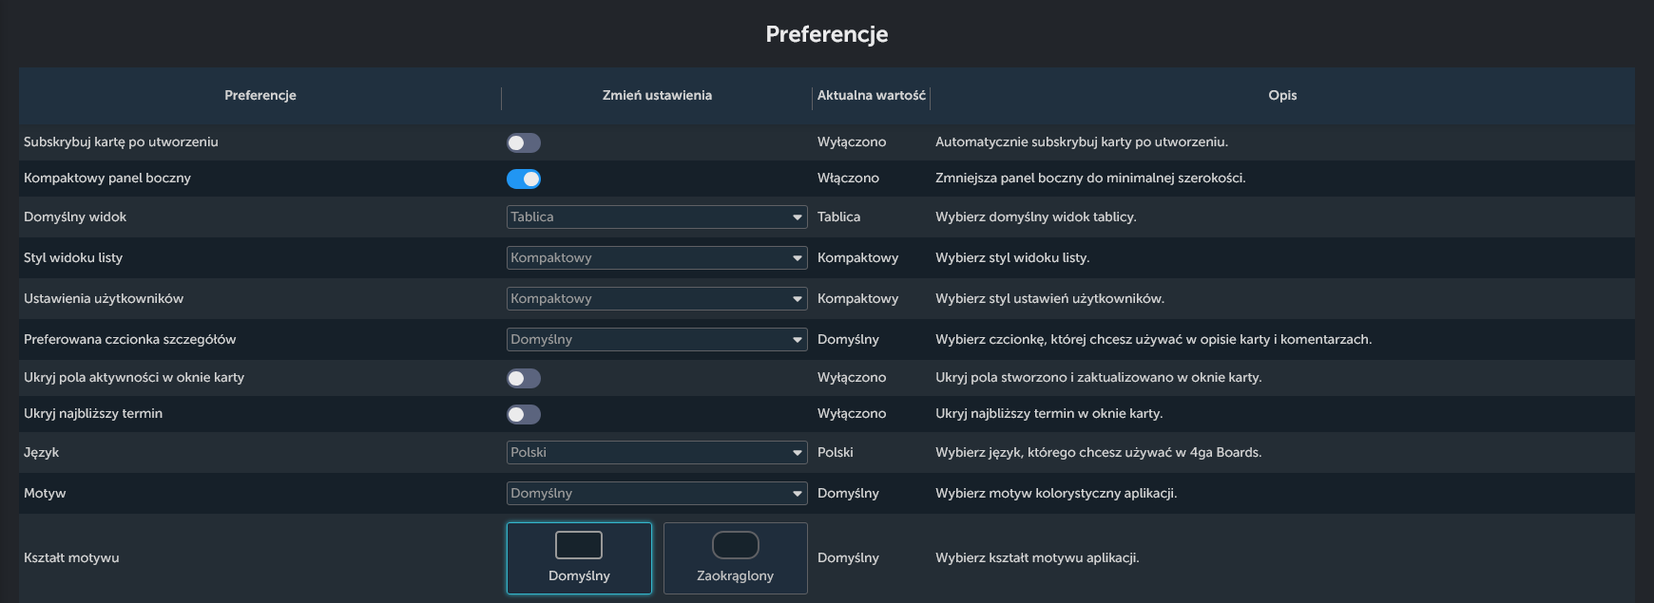
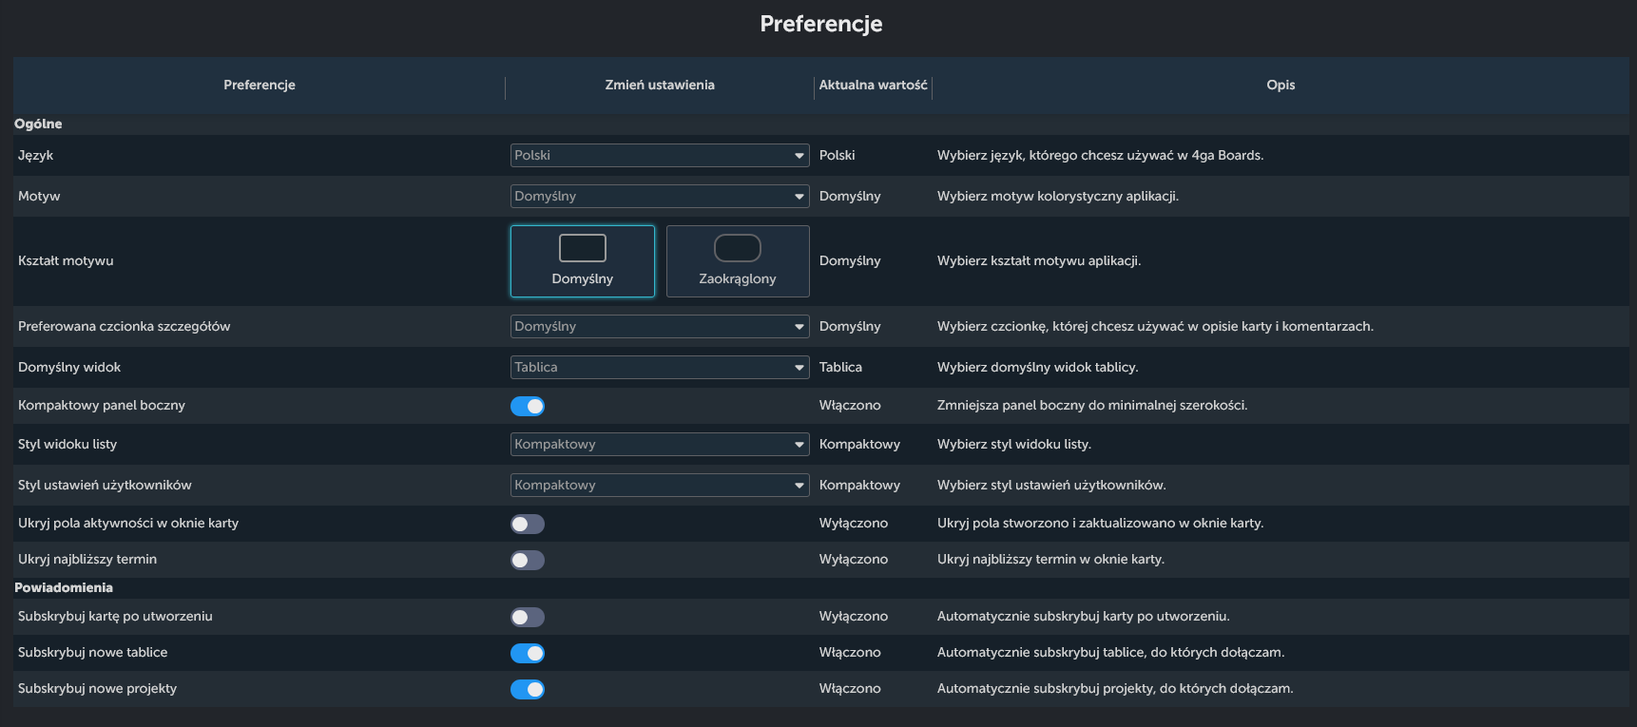
feat: updated docs pl version, minor adjustments en version

diff --git a/i18n/pl/docusaurus-plugin-content-docs/current/settings.md b/i18n/pl/docusaurus-plugin-content-docs/current/settings.md
@@ -14,17 +14,55 @@ W ustawieniach profilu dodać awatar/zdjęcie do swojego profilu (kliknij przyci
 ![Ustawienia profilu](/img/settingsprofile_pl.png)
 
 ## Preferencje
-W preferencjach możesz ustawić automatyczną subskrypcję tworzonych przez siebie kart (porównaj: [karta](./card), sekcja opcje karty) oraz zmienić język wyświetlania 4ga Boards.
+W preferencjach możesz dostosować 4ga Boards do swoich, nomen omen, preferencji.
 
-![Ustawienia preferencji użytkownika](/img/settingspreferences_pl.png)
+1. "Język": Wybierz język, którego chcesz używać w 4ga Boards.
+2. "Motyw": Wybierz kolorystyę aplikacji. Obecnie dostępne motywy: domyślny (używany w tej dokumentacji), "GitHub Dark" lub stwórz własny motyw (zobacz poniższe obrazki).
 
-Opcja "kompaktowy panel boczny" pozwala na zwężenie bądź poszerzenie panelu bocznego. Po włączeniu panel będzie wąski - jest to opcja polecana dla użytkowników ceniących minimalistyczny wygląd i większą przestrzeń roboczą tablicy.
+![Github dark rounded showcase](/img/githubdarkrounded_en.png)
 
-![Szerokość kompaktowego panelu bocznego](/img/sidebarslim_pl.png)
+![Light theme showcase](/img/themelight_en.png)
 
-Wyłączenie opcji poszerzy panel boczny, co może być szczególnie użyteczne jeśli nazwy tablic/projektów nie mieszczą się w widoku kompaktowym:
+![Custom theme selection](/img/themecustomselect_en.png)
 
-![Szerokość standardowego panelu bocznego](/img/sidebarnormal_pl.png)
+![Custom theme editor](/img/themecustom_en.png)
+
+3. "Kształt motywu": Wybierz kształt elementów aplikacji. Możesz wybrać domyślny kwadratowy lub zaokrąglony (zobacz obrazek powyżej).  
+
+4. "Preferowana czcionka szczegółów": Wybierz czcionkę (domyślną lub monospace) do opisu kart i komentarzy; w tej dokumentacji używana jest czcionka domyślna.
+
+5. "Domyślny widok": Ustaw, czy tablice mają otwierać się domyślnie w widoku tablicy czy listy.
+
+6. "Kompaktowy pasek boczny": Wybierz styl swojego paska bocznego (dotyczy zarówno ustawień, jak i widoku tablic).
+Jeśli włączysz tę opcję, pasek boczny będzie wąski. To dobre rozwiązanie, jeśli preferujesz minimalistyczny design i więcej miejsca dla list w widoku tablicy, bądź szerszej tabeli w widoku listy.
+
+![Compact sidebar width](/img/sidebarslim_pl.png)
+
+Jeśli wyłączysz tę opcję, pasek boczny będzie szerszy, co może być przydatne przy długich nazwach projektów.
+
+![Normal sidebar width](/img/sidebarnormal_pl.png)
+
+7. "Styl widoku listy": Wybierz, czy widok listy ma być kompaktowy, czy większy (domyślny); w tej dokumentacji pokazany jest widok kompaktowy.
+
+8. "Styl ustawień użytkowników": Wybierz, czy ustawienia użytkowników mają być w wersji kompaktowej czy większej (domyślnej).
+
+9. "Ukryj aktywność w modalach kart": Włącz, aby ukryć dziennik aktywności (czas utworzenia i ostatniej aktualizacji) w widoku kart.
+   
+10. "Ukryj najbliższy termin": Ukryj najbliższy/earliest termin w modalach kart.
+
+### Notifications
+
+1.  "Subskrybuj własne karty": ustaw, jeśli chcesz być automatycznie subskrybowany do kart, które tworzysz.
+
+2.  "Subskrybuj nowe tablice": ustaw, jeśli chcesz być automatycznie subskrybowany do tablic, do których dołączasz.
+
+3.  "Subskrybuj nowe projekty": ustaw, jeśli chcesz być automatycznie subskrybowany do projektów, do których dołączasz.
+
+(SEKCJA DLA ADMINISTRATORÓW, pozostali użytkownicy nie będą widzieć poniższych ustawień)
+
+14. "Subskrybuj powiadomienia użytkowników": ustaw, jeśli chcesz być automatycznie subskrybowany do powiadomień o innych użytkownikach (zmiana e-mail, nazwy użytkownika).
+
+15.  "Subskrybuj powiadomienia instancji": ustaw, jeśli chcesz być automatycznie subskrybowany do powiadomień ogólnych instancji.
 
 ## Konto
 Możesz tutaj zmienić swój login i e-mail. W tym celu musisz podać obecne hasło.
@@ -37,6 +75,8 @@ Tutaj możesz zmienić swoje obecne hasło.
 ![Ustawienia uwierzytelniania](/img/settingsauth_pl.png)
 
 ## O 4ga Boards
-Sekcja podstawowych informacji o programie: obecna wersja programu, najnowsza dostępna wersja programu oraz linki do stron: [4ga Boards](https://4gaboards.com), [GitHub](https://github.com/RARgames/4gaBoards), [Polityka Prywatności](https://4gaboards.com/privacy-policy) oraz  [Warunki Korzystania z Usług](https://4gaboards.com/terms-of-service).
+Sekcja zawierająca informacje o aktualnej wersji 4ga Boards, najnowszej dostępnej wersji oraz przydatne linki: [4ga Boards](https://4gaboards.com), [Dokumentacja](https://docs.4gaboards.com), [Przycisk wsparcia rozwoju](https://www.paypal.com/donate/?hosted_button_id=86RVDTMNLBBPJ), [GitHub](https://github.com/RARgames/4gaBoards), [X](https://x.com/4gaBoards), [YouTube](https://www.youtube.com/@4gaBoards), [LinkedIn](https://www.linkedin.com/company/4ga-boards), [Facebook](https://www.facebook.com/4gaBoards), [Polityka prywatności](https://4gaboards.com/privacy-policy) oraz [Regulamin](https://4gaboards.com/terms-of-service).
+Tutaj możesz również zaimportować projekt „Getting Started”, który zapewnia interaktywny wstęp do funkcji i działania 4ga Boards.
+
 
 ![O 4ga Boards](/img/settingsabout_pl.png)

diff --git a/docs/settings.md b/docs/settings.md
@@ -18,9 +18,26 @@ This section lets you customize 4ga Boards to your, well, preferences.
 
 ![User preferences settings](/img/settingspreferences_en.png)
 
-1. "Subscribe to my own cards": set if you want to be automatically subscribed to the cards created by you (see [card](./card#card-options), card options section).
+### General
 
-2. "Compact Sidebar": choose the style of your sidebar (applicable for both settings and board sidebars). 
+1.  "Language": Select the language you want to use in 4ga Boards.
+2. "Theme": Select the color theme of the application. Currently available themes: default (which is used in this documentation), and "GitHub Dark", and even create custom theme! (see pictures below)
+
+![Github dark rounded showcase](/img/githubdarkrounded_en.png)
+
+![Light theme showcase](/img/themelight_en.png)
+
+![Custom theme selection](/img/themecustomselect_en.png)
+
+![Custom theme editor](/img/themecustom_en.png)
+
+3. "Theme Shape": Select the shape of the application theme. Choose from default square shape or rounded shape on elements (see picture below)  
+
+4. "Preferred Details Font": Select the font (default or monospace) you want to use in card description and comments; in this documentation, the default version is used.
+
+5. "Default View": Set if you want boards to open in board view or list view by default.
+
+6. "Compact Sidebar": choose the style of your sidebar (applicable for both settings and board sidebars). 
 If you enable it, you sidebar will be slim. This option is great if you prefer minimalistic design and more room for your lists in the board view. 
 
 ![Compact sidebar width](/img/sidebarslim_en.png)
@@ -29,24 +46,33 @@ If you disable it, the sidebar will be bulkier, which might be useful if you hav
 
 ![Normal sidebar width](/img/sidebarnormal_en.png)
 
-3. "Default View": Set if you want boards to open in board view or list view by default.
+7. "List View Style": Set if you want a compact or bigger (default) version of list view; in this documentation, the compact version is visible.
 
-4. "List View Style": Set if you want a compact or bigger (default) version of list view; in this documentation, the compact version is visible.
+8. "Users Settings Style": Set if you want a compact or bigger (default) version of User Settings;
 
-5. "Users Settings Style": Set if you want a compact or bigger (default) version of User Settings;
-
-6. "Preferred Details Font": Select the font (default or monospace) you want to use in card description and comments; in this documentation, the default version is used.
-
-7. "Hide Card Modal Activity": Enable to hide activity log (creation and last update time) in card view.
+9. "Hide Card Modal Activity": Enable to hide activity log (creation and last update time) in card view.
    
-8. "Hide Closest Due Date": Hide closest/earliest due date in card modal.
-   
-9.  "Language": Select the language you want to use in 4ga Boards.
-    
-10. "Theme": Select the color theme of the application. Currently available themes: default (which is used in this documentation), and "GitHub Dark" (see picture below)
-11. "Theme Shape": Select the shape of the application theme. Choose from default square shape or rounded shape on elements (see picture below)
+10. "Hide Closest Due Date": Hide closest/earliest due date in card modal.
 
-![Github dark rounded showcase](/img/githubdarkrounded_en.png)
+### Notifications
+
+11. "Subscribe to my own cards": set if you want to be automatically subscribed to the cards created by you (see [card](./card#card-options), card options section).
+
+12. "Subscribe to new boards": set if you want to be automatically subscribed to boards you join
+
+13. "Subscribe to new projects": set if you want to be automatically subscribed to projects you join.
+
+(ADMIN ONLY BELOW)
+
+14. "Subscribe to users notifications": set if you want to be automatically subscribed to notifications about other users (change e-mail, username).
+
+15.  "Subscribe to instance notifications": set if you want to be automatically subscribed to instance-wide notifications.
+
+
+
+   
+
+
 
 ## Account
 Here you can change your username and/or e-mail adress. For both changes you will need to input your current password.

diff --git a/i18n/pl/docusaurus-plugin-content-docs/current/board.md b/i18n/pl/docusaurus-plugin-content-docs/current/board.md
@@ -21,7 +21,7 @@ Aktualnie otwarta tablica będzie podświetlona na panelu bocznym.
 ## Tworzenie nowej tablicy
 
 
-Możesz mieć wiele tablic w projekcie - wystarczy że dodasz je klikając na przycisk "+ Dodaj tablicę" w prawym górnym rogu w widoku projektu, w dolnej części panelu bocznego bądź też w menu podręcznym projektu. Odpowiednie przyciski zostały zaznaczone na poniższym obrazku. 
+Możesz mieć wiele tablic w projekcie - wystarczy że dodasz je klikając na przycisk `+ Dodaj tablicę` w prawym górnym rogu w widoku projektu, w dolnej części panelu bocznego bądź też w menu podręcznym projektu. Odpowiednie przyciski zostały zaznaczone na poniższym obrazku. 
 
 ![Umiejscowienie przycisków dodaj tablicę](/img/boardaddbutton_pl.png)
 
@@ -44,13 +44,27 @@ Aby edytować bądź usunąć tablicę należy najechać na nią w panelu boczny
 
 ![Menu kontekstowe tablicy](/img/boardmenu_pl.png)
 
+## Pasek zadań tablicy
 
-Każda tablica posiada osobny panel z ustawieniami, w którym (zaczynając od lewej) możemy:
-1. Zobaczyć ilość kart po filtrowaniu (ilość kart odfiltrowanych z ilości wszystkich kart).
-2. Dodać lub usunąć członków (jeśli jesteśmy administratorami albo moderatorami projektu)
-3. Filtrować istniejące karty po przypisanych do nich użytkownikach.
-4. Filtrować istniejące karty po przypisanych do nich tagach. W tym miejscu można także tworzyć, edytować i usuwać tagi.
-5. Zarządzać integracją z GitHubem (w trakcie implementacji)
+Każda tablica posiada osobny pasek zadań, w którym (zaczynając od lewej) możemy:
+1. Ustawić integrację z GitHub (ikonka GitHub),
+2. Zobaczyć ilość kart po filtrowaniu,
+3. Dodać członków do tablicy poprzez przycisk `+ Dodaj członka`, usunąć członka bądź zmienić jego uprawnienia po kliknięciu na jego ikonę,
+4. Filtrowanie kart (więcej poniżej),
+5. Zmienić widok (Widok tablicy/Widok listy)
+
+## Filtrowanie tablicy
+
+Filtrowanie tablicy to potężne narzędzie, które pozwala szybko znaleźć to, czego szukasz. Aby nawigacja była jeszcze szybsza, możesz wybrać odpowiednią opcję (wyjaśnioną poniżej), klikając ją lub używając skrótu klawiszowego, gdy jesteś w polu `Filtruj karty...`.
+
+Możesz filtrować tablicę na różne sposoby:
+
+1. `Aa`: Rozróżnianie wielkości liter (`Alt` + `C`): będzie filtrować z uwzględnieniem wielkości liter (Przykład: wpisanie „create” nie zwróci kart z tytułem „Create”)
+2. `~`: Dowolne dopasowanie (`Alt` + `V`): „wyszukiwanie inkluzywne”; włącz tę opcję, aby wyświetlać karty, które spełniają dowolny z wybranych filtrów.
+(Przykład: jeśli wybierzesz wielu członków, wyszukiwanie zwróci każdą kartę, która ma przypisanego przynajmniej jednego z wybranych członków. Jeśli opcja Dowolne dopasowanie jest wyłączona, pojawią się tylko karty, które mają przypisanych wszystkich wybranych członków.)
+3. Filtrowanie według członków: Wybierz/Usuń członków, według których chcesz filtrować.
+4. Filtrowanie według etykiet: Wybierz/Usuń etykiety, według których chcesz filtrować.
+5. Filtrowanie według terminu wykonania: Wybierz termin wykonania do filtrowania: wyszukiwanie zwróci wszystkie karty z terminem przed wybraną datą; jeśli opcja `Pokaż karty tylko dla wybranego dnia` jest włączona, wyświetlone zostaną wyłącznie karty z *dokładnie* tym terminem. To wyszukiwanie zwraca również karty z odpowiednim terminem podzadań.
 
 ![Panel tablicy z opcjami filtrowania](/img/boardtoolbar_pl.png)
 

diff --git a/i18n/pl/docusaurus-plugin-content-docs/current/list-view.md b/i18n/pl/docusaurus-plugin-content-docs/current/list-view.md
@@ -1,0 +1,62 @@
+---
+sidebar_label: 'Tablica: Widok Listy'
+---
+
+# Widok listy
+
+Widok listy to specjalny widok w 4ga Boards, który pozwala zobaczyć wszystkie zadania w wygodnej formie listy to-do. Oba widoki można swobodnie zmieniać: wszystkie zmiany pozostają zsynchronizowane, niezależnie od tego, czy wprowadzisz je w widoku tablicy, czy w widoku listy.
+
+![Widok listy z tablicą "New Website"](/img/listview_pl.png)
+
+## Nawigacja w widoku listy
+
+Możesz ręcznie dostosować szerokość kolumn, przeciągając separatory `|`.
+
+Każdy wiersz reprezentuje osobną kartę i zawiera te same funkcje co zwykła karta w widoku tablicy, wyświetlone w kolumnach.
+Od lewej do prawej:
+
+1. Ikona `Dzwonka` do powiadomień
+2. Nazwa karty
+3. Etykiety przypisane do karty
+4. Członkowie przypisani do karty
+5. Lista w widoku tablicy, do której należy karta
+6. `Znacznik` informujący, czy karta zawiera opis
+7. Liczba załączników
+8. Liczba komentarzy
+9. Termin wykonania
+10. Najwcześniejszy termin wykonania
+11. Timer
+12. Zadania przypisane do karty
+13. Menu `wielokropka` karty
+
+Aby uzyskać dodatkowe informacje, przejdź do [opisu karty](./card).
+
+Możesz wchodzić w interakcję z każdym z tych elementów bezpośrednio z poziomu widoku listy lub otwierając odpowiednią kartę.
+Aby to zrobić, kliknij w puste miejsce w wierszu karty (dla wygodniejszej nawigacji zalecamy kliknięcie w pole opisu/załącznika/komentarza — nie otworzą one wyskakującego okna).
+
+
+![Widok list z otwartą kartą](/img/listviewcard_pl.png)
+
+To jest domyślny zestaw kolumn. Aby dodać lub usunąć kolumny, użyj menu `wielokropka` w prawym górnym rogu listy. Możesz również ustawić kolumny tak, aby dopasowywały się do treści lub do szerokości ekranu, a także łatwo przywrócić domyślne sortowanie i domyślny zestaw kolumn.
+
+
+![Menu widoku listy](/img/listviewmenu_pl.png)
+
+Na dole listy znajduje się dodatkowy panel nawigacyjny, w którym możesz wybrać liczbę kart widocznych na stronę (domyślnie: 100), zmieniać strony za pomocą strzałek po lewej stronie oraz uzyskać dostęp do menu listy poprzez ikonę `koła zębatego`.
+
+Po prawej stronie możesz dodać [Listę](./list) oraz [Kartę](./card) — pojawią się one również w widoku tablicy.
+
+
+![Dolne menu widoku listy](/img/listviewbottom_en.png)
+
+## List view features
+
+W porównaniu do klasycznego widoku tablicy dostępnych jest kilka dodatkowych opcji, które pomagają lepiej wizualizować przepływ pracy:
+
+Sortowanie: możesz sortować listę jak zwykłą tabelę, zarówno rosnąco, jak i malejąco, co oznaczone jest ikoną `strzałki`.
+
+Możesz także zastosować sortowanie wielopoziomowe — wybrać kilka kolumn do sortowania, gdzie liczby koło strzałek pokazują priorytet sortowania.
+W poniższym przykładzie kolejność sortowania jest następująca: najpierw etykiety rosnąco, następnie nazwa malejąco.
+
+
+![List view sorting feature](/img/listviewsorting_pl.png)

diff --git a/docs/card.md b/docs/card.md
@@ -46,7 +46,7 @@ After clicking the ellipsis menu in the card you will open a card menu. Here you
 6. Move card to another project/board/list (note that this is the only way to move the card to another project or board, as drag & dropping the card works only on the lists in a current board)
 7. Duplicate card, which will create exact same copy of the card directly below it in the list
 8. Copy a link to a card which you can then share with your team
-9. Check activity on the card (creation and last edit time)
+9. Check activity on the card (creation, last edit time)
 10. Delete card
 
 ## Card View overview
@@ -60,7 +60,7 @@ It is quite convenient if you want to rearrange your cards while still writing t
 
 Also, notice that cards have different appearance that is changing with the amount of options and details set.
 
-In the list view, the card is also opening at the left side, squeezing the table to fit the screen (no worries, it will be back at normal size once you close the card).
+In the list view, the card is also opening at the right side, squeezing the table to fit the screen (no worries, it will be back at normal size once you close the card).
 
 ![List view with card opened](/img/listviewcard_en.png)
 
@@ -86,9 +86,9 @@ Note that only members that are added to the current board can be assigned to th
 
 ![Card due date](/img/cardduedate_en.png)
 
-8. Earliest due date.
-9. Activity log (Created/Last updated time). Only visible if not disabled in the personal preferences.
-10. Timer: Using timer you can track the time it takes you to complete the task. Click on the timer to start/pause it, and click `pencil` button to edit the time manually or reset timer. When the timer runs it appears green. 
+8. Timer: Using timer you can track the time it takes you to complete the task. Click on the timer to start/pause it, and click `pencil` button to edit the time manually or reset timer. When the timer runs it appears green.
+9. Earliest due date, from both main due date and all the subtasks due dates.
+10. Activity log (Created/Last updated time). Only visible if not disabled in the personal preferences. 
 11. Description: Write the description for your card (to save click `Save` button or press `Ctrl` + `Enter`). See "Text editor" section below for a detailed guide.
 12. Tasks: In this section you can add/edit tasks in your card or mark them complete. A small line indicates the portion of tasks completed, ranging from red to green. It remains empty if there are no finished tasks or when there are no tasks added.
     - To add tasks, click the `+` icon or `Add Task` button.

diff --git a/i18n/pl/docusaurus-plugin-content-docs/current/instance-settings.md b/i18n/pl/docusaurus-plugin-content-docs/current/instance-settings.md
@@ -18,10 +18,14 @@ Jako administrator masz również pełną kontrolę nad informacjami użytkownik
 ![instanceusers_pl.png](/img/instanceusers_pl.png)
 
 ## Opcje logowania
-Rejestracja użytkowników: Włącz lub wyłącz wszystkie metody rejestracji użytkowników. Jeśli wyłączysz wszystkie metody rejestracji, tylko administratorzy będą mogli tworzyć nowych użytkowników.
 
-Lokalna rejestracja użytkowników: Włącz lub wyłącz lokalną rejestrację użytkowników. Ta metoda rejestracji umożliwia użytkownikom utworzenie konta przy użyciu nazwy użytkownika i hasła.
+- Rejestracja użytkowników: wyłącz, jeśli chcesz zachować pełną kontrolę nad nowymi użytkownikami (będą musieli być dodani ręcznie).
+- Lokalna rejestracja użytkowników: włącz, jeśli chcesz, aby nowi użytkownicy mogli rejestrować się za pomocą e-maila i hasła.
+- Rejestracja przez SSO: włącz, jeśli chcesz umożliwić rejestrację przez SSO.
+- Tworzenie projektów dla wszystkich użytkowników: włącz lub wyłącz tworzenie projektów dla wszystkich użytkowników. Jeśli wyłączysz tę opcję, tylko administratorzy będą mogli tworzyć nowe projekty. Wybierz tę opcję, jeśli chcesz, aby wszyscy użytkownicy mogli tworzyć projekty osobiste.
+- Synchronizuj dane SSO podczas uwierzytelniania: włącz lub wyłącz synchronizację danych użytkownika z dostawcą SSO podczas uwierzytelniania.
+- Synchronizuj administratora SSO podczas uwierzytelniania: włącz lub wyłącz synchronizację administratora z dostawcą SSO podczas uwierzytelniania. Włączenie tej opcji może automatycznie przyznawać lub odbierać prawa administratora na podstawie danych SSO.
+- Dozwolone domeny rejestracji: lista dozwolonych domen e-mail dla rejestracji użytkowników, oddzielona średnikami. Pozostaw puste, aby zezwolić na dowolną domenę.
 
-Rejestracja przez SSO: Włącz lub wyłącz rejestrację użytkownika przez SSO. Ten sposób rejestracji pozwala użytkownikom na utworzenie konta przy pomocy konta zewnętrznego np. poprzez konto zewnętrzne (obecnie możliwa jest rejestracja przez konto Google).
 
 ![instancesettings_pl.png](/img/instancesettings_pl.png)

diff --git a/docs/board.md b/docs/board.md
@@ -57,15 +57,15 @@ Each board comes with separate toolbar, in which (going from left to right) you 
 
 ## Board Filtering
 
-Board filtering is a powerful tool that let's you quickly find what you are looking for. For even quicker navigation, you can select appriopriate option (explained below) by clicking or using key combination when you are clicked in the `Filter cards` type box (presented below).
+Board filtering is a powerful tool that let's you quickly find what you are looking for. For even quicker navigation, you can select appriopriate option (explained below) by clicking or using key combination when you are clicked in the `Filter cards` type box.
 
 You can filter board using different techniques:
 1. `Aa`: Match Case (`Alt` + `C`): will filter based on letter case (Example: typing "create" will not return cards with the title "Create")
 2. `~`: Any Match (`Alt` + `V`): "inclusive search"; Enable this option to show cards that match any of your selected filters.\
  (Example: If you select multiple members, the search will return every card that has at least one of the selected members assigned. If `Any Match` is off, only cards that have all selected members assigned will appear.)
-3. Filter by members: Select/Remove members you want to filter.
-4. Filter by labels: Select/Remove labels you want to filter.
-5. Filter by due date: Select the due date to filter: search will return all the cards that are *before* selected due date; if `Show Cards Just For Selected Day` option is enabled, it will show cards with only the *exact* due date. 
+1. Filter by members: Select/Remove members you want to filter.
+2. Filter by labels: Select/Remove labels you want to filter.
+3. Filter by due date: Select the due date to filter: search will return all the cards that are *before* selected due date; if `Show Cards Just For Selected Day` option is enabled, it will show cards with only the *exact* due date. This search returns also the cards with appriopriate subtask due date. 
 
 
 ## Board permissions

diff --git a/i18n/pl/docusaurus-plugin-content-docs/current/list.md b/i18n/pl/docusaurus-plugin-content-docs/current/list.md
@@ -20,6 +20,16 @@ Ważnym usprawnieniem w 4ga Boards jest możliwość ukrywania/zwijania list. Za
 
 Aby utworzyć listę kliknij na przycisk "dodaj listę", nazwij ją i zatwierdź klikając przycisk `Dodaj listę`. Automatycznie otworzy się okienko pozwalające na stworzenie kolejnej listy - jeśli nie chcesz jej tworzyć, kliknij `Anuluj` albo zignoruj to i zacznij robić coś innego - okienko zniknie wtedy automatycznie.
 
-Możesz zmienić lub usunąć listę klikając na ikonkę trzech kropek w prawym górnym rogu i wybierając odpowiednią opcję (usunięcie listy będzie wymagało dodatkowego potwierdzenia w osobnym okienku). Opcja `Dodaj kartę` utworzy nową kartę na dole listy.
+Możesz zmienić lub usunąć listę klikając na ikonkę trzech kropek w prawym górnym rogu i wybierając odpowiednią opcję (usunięcie listy będzie wymagało dodatkowego potwierdzenia w osobnym okienku). W tym samym menu możesz sprawdzić aktywność listy (kiedy została utworzona, kiedy była ostatnio aktualizowana oraz szczegółową aktywność użytkowników w danej liście).
+
+Opcja `Dodaj kartę` utworzy nową kartę na dole listy.
 
 ![Menu kontekstowe listy](/img/listmenu_pl.png)
+
+## Lista w widoku listy
+
+Listy nie znikają po przełączeniu z widoku tablicy na widok listy. Aby sprawdzić, do której listy należy dana karta, skorzystaj z kolumny „Lista”. W tym miejscu możesz również przenosić karty między listami, klikając w tę kolumnę.
+
+![Zmiana listy w widoku listy](/img/listinlistview_en.png)
+
+Sortowanie list w tym widoku *nie zmienia* ich położenia w widoku tablicy.

diff --git a/i18n/pl/docusaurus-plugin-content-docs/current/project.md b/i18n/pl/docusaurus-plugin-content-docs/current/project.md
@@ -13,7 +13,7 @@ Jeśli chcesz powrócić do widoku projektów, wystarczy że klikniesz w logo 4g
 Aby utworzyć projekt wystarczy kliknąć przycisk `+ Dodaj projekt`, dostępny w prawym górnym rogu bądź też w dolnej części panelu bocznego. Po kliknięciu pojawi się okienko w którym trzeba wpisać tytuł i zatwierdzić stworzenie projektu. 
 UWAGA: Jeśli nie widzisz opcji utworzenia projektu oznacza to że nie masz uprawnień administratora. W takim wypadku możesz wyłącznie używać projektów do których zostałeś dodany jako członek przez administratora.
 
-Aby otworzyć menu podręczne projektu (dostępne dla moderatora projektu) należy najechać myszką na nazwę projektu a następnie kliknąć w ikonkę trzech kropek. Za pomocą tego menu możliwa jest zmiana nazwy projektu, przejście do [ustawień projektu](./project-settings) oraz dodać nową [tablicę](./board).
+Aby otworzyć menu podręczne projektu (dostępne dla moderatora projektu) należy najechać myszką na nazwę projektu a następnie kliknąć w ikonkę trzech kropek. Za pomocą tego menu możliwa jest zmiana nazwy projektu, przejście do [ustawień projektu](./project-settings), sprawdzenie aktywności w projekcie (m.in. kiedy został stworzony, ostatnio zaktualizowany oraz szczegółową aktywność użytkowników) oraz dodanie nowej [tablicy](./board).
 
 ![Menu kontekstowe projektu](/img/projectsmenu_pl.png)
 

diff --git a/i18n/pl/docusaurus-plugin-content-docs/current/intro.md b/i18n/pl/docusaurus-plugin-content-docs/current/intro.md
@@ -19,7 +19,10 @@ W poniższej sekcji zaprezentowano logiczną strukturę organizacji pracy w prog
 4ga Boards wykorzystuje czterostopniową strukturę pozwalającą na zarządzanie nawet najbardziej skomplikowanymi projektami.
 
 [Projekt](./project) to najwyższy poziom organizacji w 4ga Boards zawierający tablice.\
-[Tablica](./board) to przestrzeń robocza w obrębie projektu gdzie zadania zorganizowane są przy pomocy list.\
+[Tablica](./board) to przestrzeń robocza w obrębie projektu gdzie zadania są zorganizowane i zobrazowane na następujące sposoby:\
+[Widok Listy](./list-view), gdzie zadania przedstawione są w tabeli/liście zadań,\
+[Widok Tablicy](./board-view), czyli klasyczna tablica Kanban z listami oraz kartami.
+
 [Lista](./list) to kolumna reprezentująca poszczególne etapy procesu produkcyjnego ("Zadania otwarte", "W trakcie" itd.), w których to kolumnach znajdują się poszczególne karty.\
 [Karta](./card) to graficzna reprezentacja pojedynczego zadania (wraz z opcjonalnymi podzadaniami), która może być swobodnie umieszczana i przenoszona pomiędzy listami.
 

diff --git a/i18n/pl/docusaurus-plugin-content-docs/current/account.md b/i18n/pl/docusaurus-plugin-content-docs/current/account.md
@@ -13,6 +13,6 @@ Jeśli nie masz jeszcze konta, możesz się zarejestrować za pomocą przycisku 
 
 ![Widok rejestracji](/img/register_pl.png)
 
-Jeśli w twojej instancji zostało włączone pojedyncze logowanie (SSO) możesz zarejestrować się przy użyciu konta Google (więcej w sekcji [ustawienia instancji](./instance-settings); obecnie tylko logowanie Google jest dostępne)
+Jeśli w twojej instancji zostało włączone pojedyncze logowanie (SSO) możesz zarejestrować się przy użyciu SSO (4ga Boards wspiera Google, Microsoft, Github oraz generic OIDC).
 
-Jeśli nie możesz się zarejestrować przy pomocy żadnej z tych metod, oznacza to że możliwość rejestracji została wyłączona przez administratora. Skontaktuj się ze swoim administratorem w celu rejestracji manualnej.
+Jeśli nie możesz się zarejestrować przy pomocy żadnej z tych metod, oznacza to że możliwość rejestracji została wyłączona przez administratora. Skontaktuj się ze swoim administratorem w celu rejestracji.
